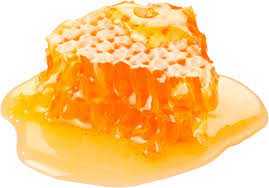
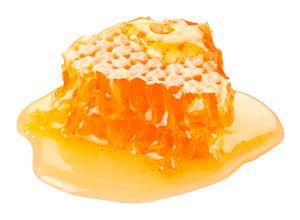
Remove prev button, edit honey picture

diff --git a/slide_player.html b/slide_player.html
@@ -226,13 +226,13 @@ Can diabetes be "treated"?
 
 # Third Question
 Which of the following food is most harmful for diabetes?
-() Sugar
-() Dates
-() Honey
-() Wheat bread
-() Barely bread
-() Rice
-() Lentil
+() Sugar <img>
+() Dates <img>
+() Honey <img>
+() Wheat bread <img>
+() Barely bread <img>
+() Rice <img>
+() Lentil <img>
 `,`# بهرنامهى خۆراک بۆ نهخۆشى شهکره
 ## پرسیار و وهڵام
 <BPC>
@@ -245,8 +245,11 @@ Which of the following food is most harmful for diabetes?
 * چاو
 * دڵ
 * گورچیله
+* فشارى خوێن
+* برین
 * پێ
 * ئهندامى زاوزێ
+* ...
 
 # ٣ پرسیار
 * هۆى شهکره چیه؟
@@ -314,13 +317,13 @@ Which of the following food is most harmful for diabetes?
 
 # السؤال الثالث
 ماهي الاغذية الاكثر ضررا لمرضي السكري مما يلي؟
-() السكر
-() التمر
-() العسل
-() خبز الحنطة (الخبز الابيض)
-() خبز الشعير (خبز السكري)
-() الرز
-() العدس
+() السكر <img>
+() التمر <img>
+() العسل <img>
+() خبز الحنطة (الخبز الابيض) <img>
+() خبز الشعير (خبز السكري) <img>
+() الرز <img>
+() العدس <img>
 `];
 
 const cont=["Continue","بهردهوام به","استمر"];
@@ -343,12 +346,13 @@ const FTB=`<button id=more onclick="get_more()">
   <svg xmlns="http://www.w3.org/2000/svg" height="24px" viewBox="0 0 24 24" width="24px" fill="currentColor"><path d="M0 0h24v24H0V0z" fill="none"/><path d="M6 10c-1.1 0-2 .9-2 2s.9 2 2 2 2-.9 2-2-.9-2-2-2zm12 0c-1.1 0-2 .9-2 2s.9 2 2 2 2-.9 2-2-.9-2-2-2zm-6 0c-1.1 0-2 .9-2 2s.9 2 2 2 2-.9 2-2-.9-2-2-2z"/></svg>
 </button>
 <button id=bpl onclick="start_slides()">${BPL}</button>
-<button onclick="prev_slide()">
- <svg xmlns="http://www.w3.org/2000/svg" height="24px" viewBox="0 0 24 24" width="24px" fill="currentColor"><path d="M0 0h24v24H0V0z" fill="none"/><path d="M20 11H7.83l5.59-5.59L12 4l-8 8 8 8 1.41-1.41L7.83 13H20v-2z"/></svg>
-</button>
 <button onclick="next_slide()">
  <svg xmlns="http://www.w3.org/2000/svg" height="24px" viewBox="0 0 24 24" width="24px" fill="currentColor"><path d="M0 0h24v24H0V0z" fill="none"></path><path d="M12 4l-1.41 1.41L16.17 11H4v2h12.17l-5.58 5.59L12 20l8-8-8-8z"></path></svg>
 </button>`;
+// <button onclick="prev_slide()">
+//  <svg xmlns="http://www.w3.org/2000/svg" height="24px" viewBox="0 0 24 24" width="24px" fill="currentColor"><path d="M0 0h24v24H0V0z" fill="none"/><path d="M20 11H7.83l5.59-5.59L12 4l-8 8 8 8 1.41-1.41L7.83 13H20v-2z"/></svg>
+// </button>
+
 
 window.onload=load_page(0);
 
@@ -398,7 +402,7 @@ function next_slide(){
   load_page(1);
   if(aud.paused) aud.play();
   // cont_slides();
-  // console.log(i,step,steps.length,steps);
+  console.log(i,step,steps.length,steps);
   }
 
 function prev_slide(){
@@ -406,7 +410,8 @@ function prev_slide(){
   step=0;
   load_page(1);
   if(i==0) document.getElementById("vpb").style="visibility:hidden;";
-  // console.log(i,steps.length,step);
+  // if(aud.paused) aud.play();
+  console.log(i,step,steps.length,steps);
   }
 
 function format_text(t,f){
@@ -489,26 +494,28 @@ function rc(id){
   }
 
 const sta=[
-  [0.1,3.6,5.1],
-  [0.1,1.2,5.3,11.2,13.5,15.5,16.8,25.2,27.2],
-  [0.1,20,23.5,27.5,35],
-  [0.1,3,5,6,7,8,9,10,11],
-  [0.1,2,3,4],
-  [0.1,3.2,9.8,12.9,14.3,15.9,18.8,23.6,24.9]
+  [0.2,3.6,5.1],
+  [0.2,1.2,5.3,11,12.7,14.9,16.4,18.5,21,25,27.2,31.7],
+  [0.2,20,23.5,27.5,35],
+  [0.2,3,5,6,7,8,9,10,11],
+  [0.2,2,3,4],
+  [0.2,3.2,9.8,12.9,14.3,15.9,18.8,23.6,24.9]
   ];
 // console.log(sta);
 function audio_update() {
-    var ta=sta[i];
-    // var mxv=ta[ta.length-1];
-    var k=0;
-    var t=aud.currentTime;
-    // document.getElementById("time").innerHTML=i+":"+step+":"+t.toFixed(1);
-    for (k in ta) {
-      if(t<ta[k]) break;
-      // console.log(k,ta[k],t);
-      delete ta[k];
-      next_step();
-      }
+  var ta=sta[i];
+  var t=aud.currentTime;
+  document.getElementById("time").innerHTML=i+":"+step+":"+t.toFixed(1);
+  for (k in ta) {
+  // for(k=0;k<mx;k++) {
+  // ta.forEach((v,k)=>{
+  // var k=0;
+  // while (ta[k]<t) {
+    // console.log(k,ta[k],t,i,ta);
+    if(t<ta[k]) break;
+    delete ta[k];
+    next_step();
+    }
   }  
 
 const stopa=[3,4,5];
@@ -569,13 +576,17 @@ FEATURES
 * make caption file (srt) automatically
 
 TODO
-* add pictures for food (next to line)
+* write script for each slide
+* add audio for each slide
+* save answers
+* give feedback based on answers
 * add time prgress above lower menu
 * add dob, years of dm, hb1c, htn (see dm sheet)
 * Save data first local storage then upload to server
 * Social media for DM patients? Group support?
 
 DONE
+* add pictures for food (next to line)
 
 STEPS
 * Load first page with Play Button
